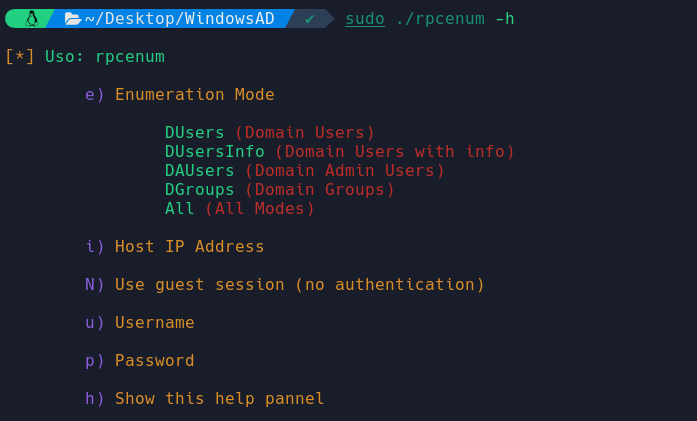
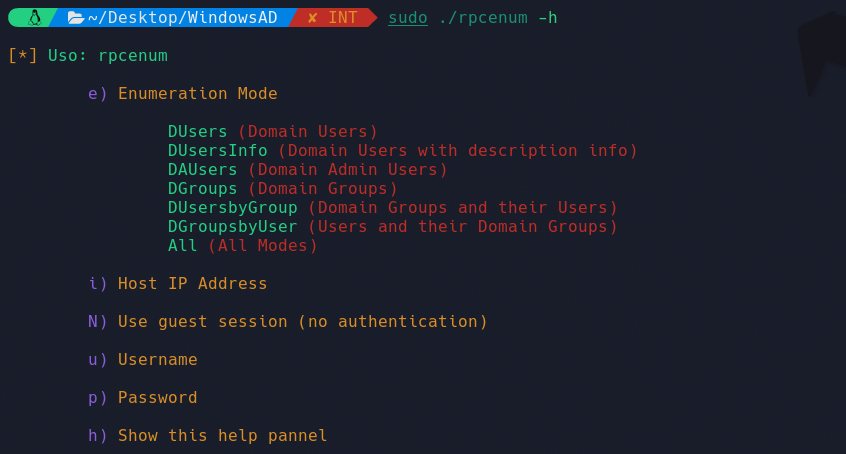
New functionalities

diff --git a/README.md b/README.md
@@ -2,7 +2,13 @@
 
 Rpcenum es una herramienta de línea de comandos, originalmente desarrollada por s4vitar, que permite la **enumeración de información de dominio** en sistemas Windows **mediante** el protocolo **RPC** (Remote Procedure Call). 
 
-En su versión original, permitía la enumeración utilizando un *Null Session* (sin autenticación) si la máquina objetivo lo permitía. Sin embargo, se ha ampliado su funcionamiento para incluir la autenticación mediante credenciales de usuario válidas, proporcionando así una mayor flexibilidad y capacidad de adaptación a diferentes entornos y restricciones de seguridad implementadas en los sistemas que se están examinando.
+En su versión original, permitía la enumeración utilizando un *Null Session* (sin autenticación) si la máquina objetivo lo permitía. Sin embargo, se ha ampliado su funcionamiento para **incluir la autenticación mediante credenciales** de usuario válidas, proporcionando así una mayor flexibilidad y capacidad de adaptación a diferentes entornos y restricciones de seguridad implementadas en los sistemas que se están examinando.
+
+Además de las funcionalidades descritas anteriormente, Rpcenum también ha sido actualizada con nuevas características. En particular, se han añadido **barras de progreso** para todos los modos de enumeración, lo que puede ayudar a los usuarios a estimar mejor el tiempo necesario para completar el proceso y a tener una idea de cómo avanza la enumeración en tiempo real.
+
+Además, se han agregado dos nuevos modos de enumeración: **DUsersbyGroup** y **DGroupsbyUser**. **El primero** de ellos muestra los **grupos del dominio y los usuarios** que pertenecen a cada uno de ellos.
+
+Por otro lado, el segundo modo, **DGroupsbyUser**, muestra los **usuarios y los grupos a los que pertenecen**, lo que puede ser de ayuda para analizar cómo se han organizado los usuarios en diferentes grupos y cómo se han establecido los permisos y las políticas de seguridad en el sistema.
 
 Esta utilidad nos **permitirá obtener la siguiente información** de un dominio:
 
@@ -10,6 +16,8 @@ Esta utilidad nos **permitirá obtener la siguiente información** de un dominio
 * Usuarios del dominio con información
 * Usuarios administradores del dominio
 * Grupos del dominio
+* Grupos del dominio y usuarios que pertenecen a ellos.
+* Usuarios del dominio y grupos a los que pretenecen.
 
 ¿Cómo funciona?
 ======
@@ -21,7 +29,6 @@ La ejecución de la herramienta mostrará el siguiente panel de ayuda:
 		alt="Panel de ayuda"
 	style="float: left; margin-right: 10px;" />
 </p>
-
 
 
 Su **funcionamiento** es el siguiente:
@@ -42,7 +49,7 @@ El modo de enumeración **DUsers**, nos permitirá obtener un listado de los usu
 	style="float: left; margin-right: 10px;" />
 </p>
 
-El modo de enumeración **DUsersInfo**, nos permitirá obtener un listado de los usuarios existentes en el dominio con descripción, pudiendo así identificar a usuarios potenciales:
+El modo de enumeración **DUsersInfo**, nos permitirá obtener un listado de los usuarios existentes en el dominio con descripción, pudiendo así identificar a usuarios potenciales. En este ejemplo se utilizará un *Null Session* (sin autenticación):
 
 <p align="center">
     <img src="images/image3.png"
@@ -66,4 +73,33 @@ El modo de enumeración **DGroups**, nos permitirá obtener un listado de los gr
     style="float: left; margin-right: 10px;" />
 </p>
 
+
+El modo de enumeración **DUsersbyGroup**, nos permitirá obtener un listado de los grupos existentes del dominio y de los usuarios pertenecientes a cada grupo.
+
+<p align="center">
+    <img src="images/image6.png"
+        alt="DUsersInfo"
+    style="float: left; margin-right: 10px;" />
+</p>
+
+El modo de enumeración **DGroupsbyUser**, nos permitirá obtener un listado de los usuarios del dominio y de los grupos a los cuales pertenecen.
+
+<p align="center">
+    <img src="images/image7.png"
+        alt="DUsersInfo"
+    style="float: left; margin-right: 10px;" />
+</p>
+
 Por último, el modo de enumeración **All**, nos efectuará todas las enumeraciones de forma simultánea, pudiendo así visualizar la información más relevante del dominio.
+
+
+Ejemplos de uso
+======
+
+```bash
+sudo ./rpcenum -i 192.168.88.156 -u 'fcarot' -p 'Password1' -e DUsers
+sudo ./rpcenum -i 192.168.88.156 -u 'fcarot' -p 'Password1' -e DUsersInfo
+sudo ./rpcenum -N -i 10.10.10.169 -e DUsersInfo
+sudo ./rpcenum -N -i 10.10.10.169 -e All
+```
+
